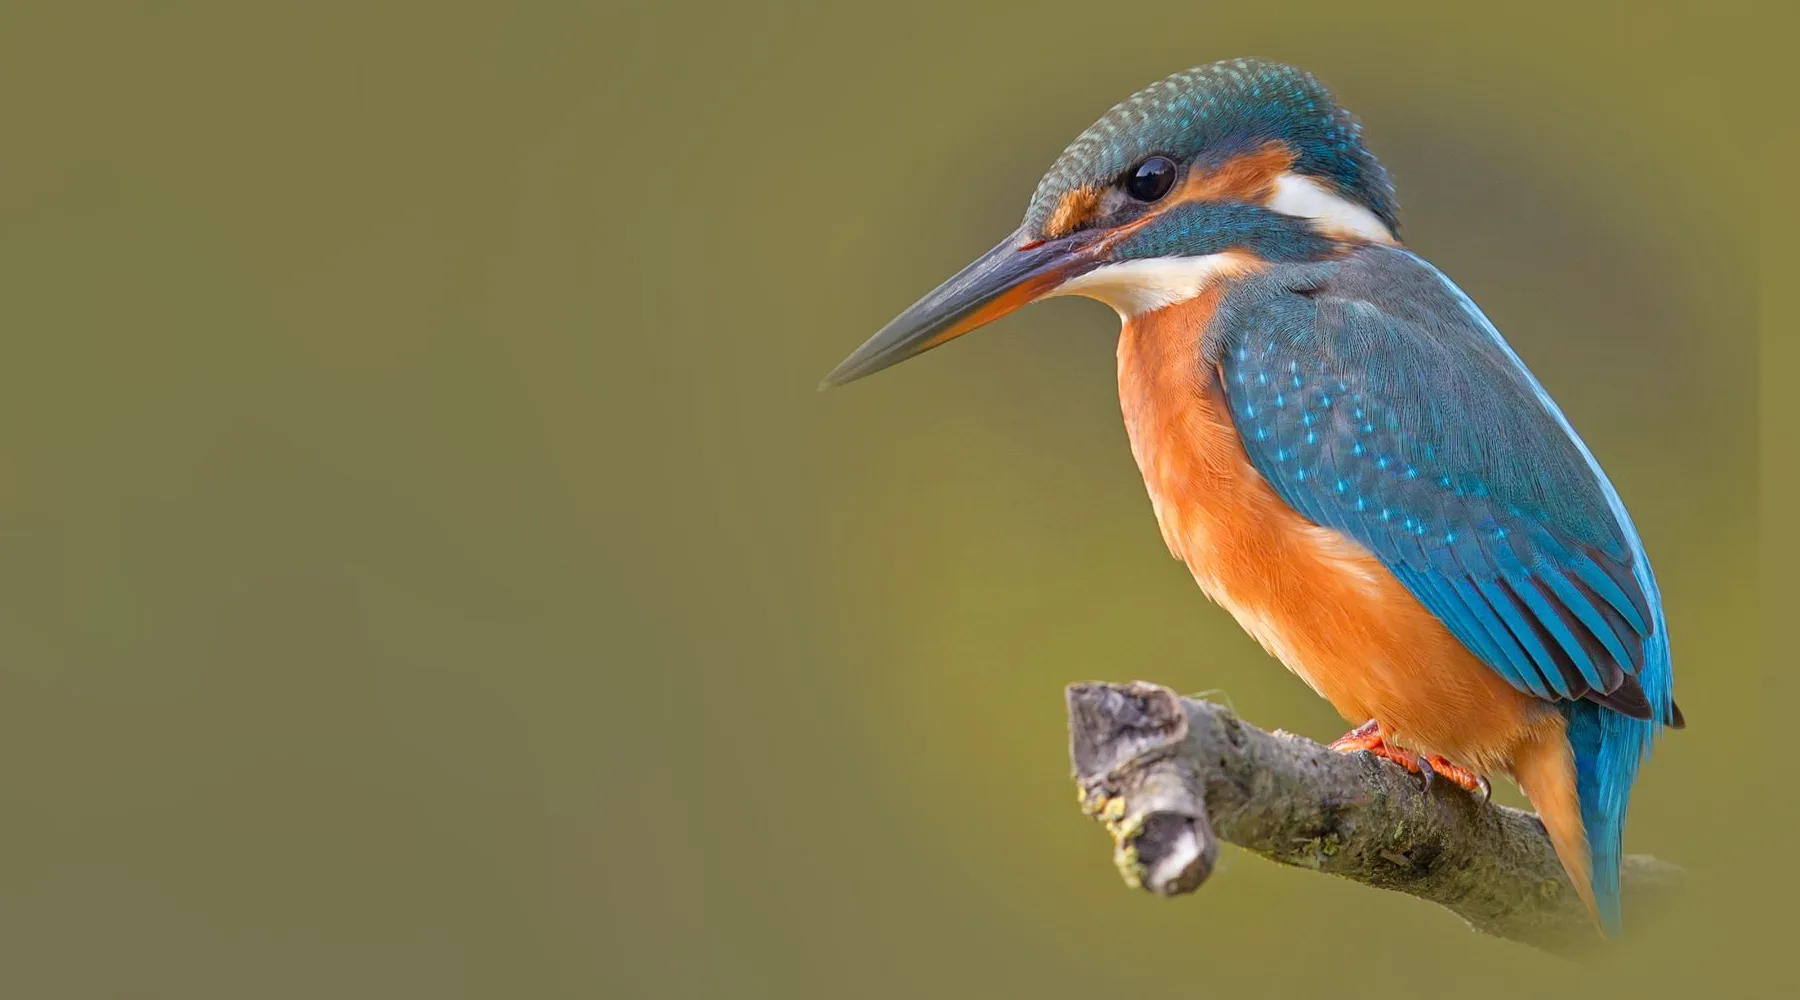
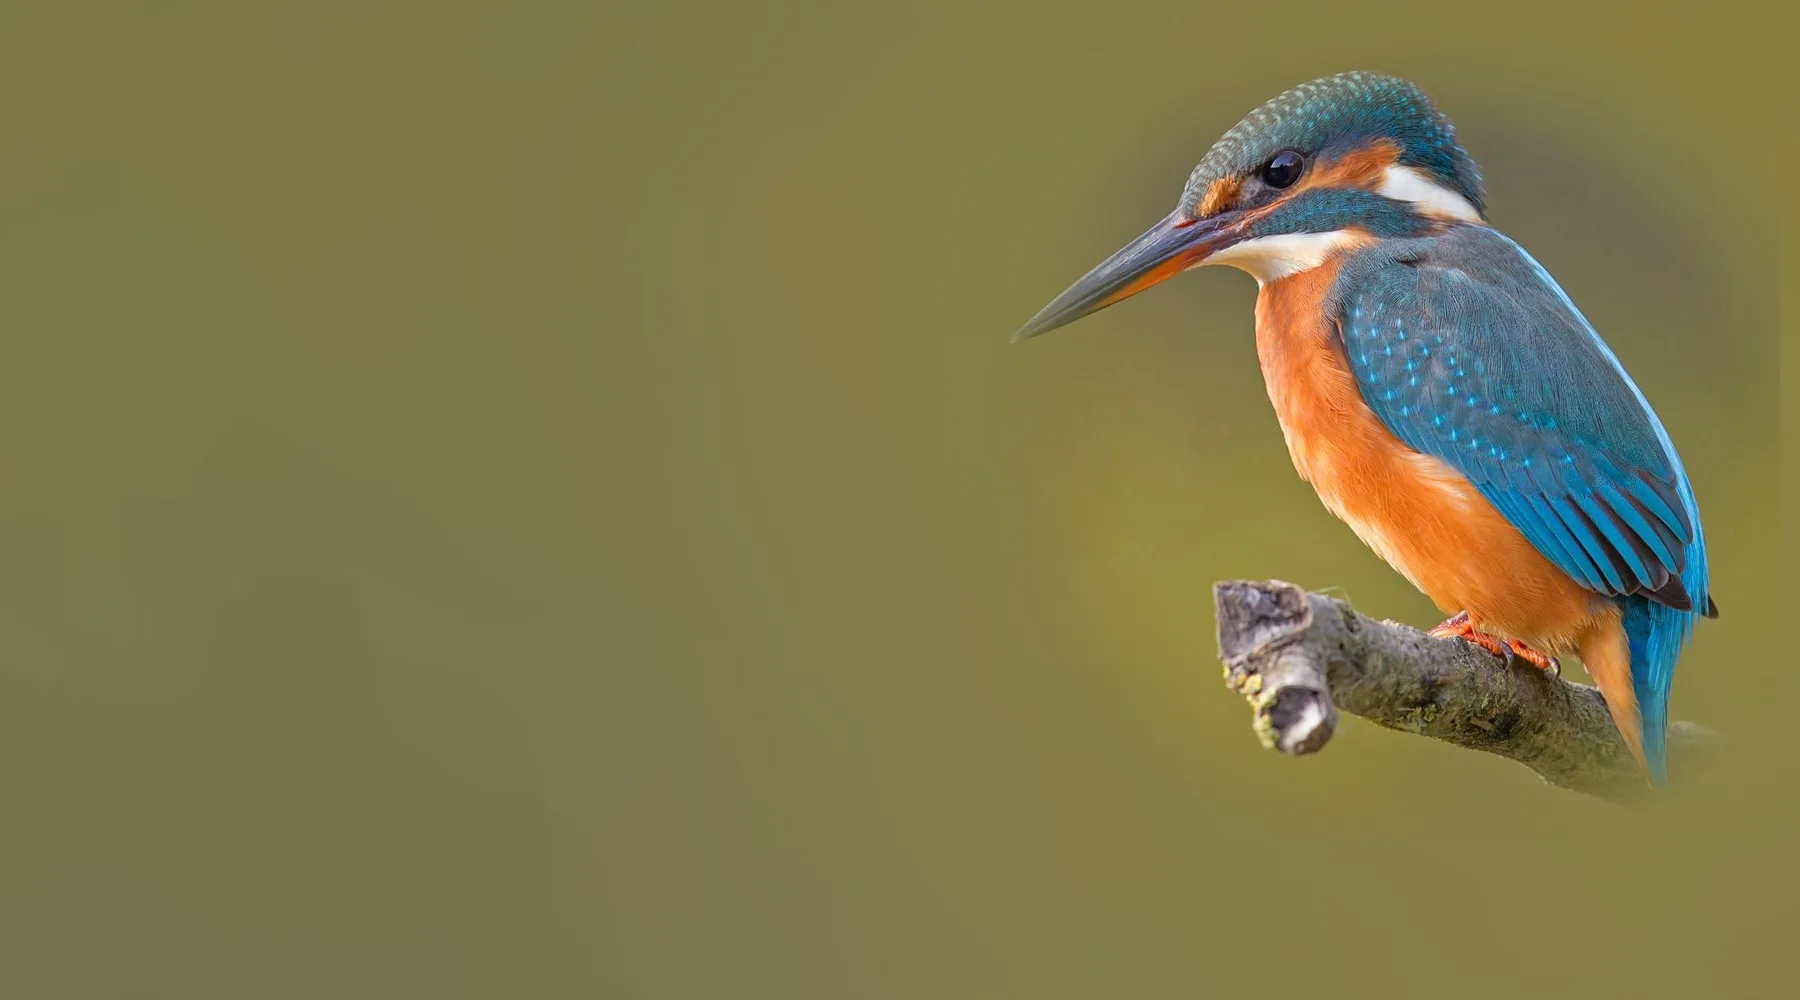
fix(nature): 头图翠鸟缩小靠右、统计分隔线、索引按钮不遮挡

Changed region(s): [[0.4667, 0.062, 0.9644, 0.93]]

diff --git a/app/nature/species/species-atlas.module.css b/app/nature/species/species-atlas.module.css
@@ -37,7 +37,10 @@
 .heroContent h1 { margin: 0; font-size: 26px; line-height: 1.3; font-weight: 800; letter-spacing: 0.02em; white-space: nowrap; }
 .heroIntro { margin: 8px 0 0; font-size: 13px; line-height: 1.6; color: rgb(255 255 255 / 92%); white-space: pre-line; }
 .heroStats { display: flex; gap: 22px; margin: 14px 0 0; }
-.heroStats > div { display: flex; flex-direction: column; align-items: center; }
+.heroStats { gap: 0 !important; }
+.heroStats > div { display: flex; flex-direction: column; align-items: center; padding: 0 16px; }
+.heroStats > div:first-child { padding-left: 0; }
+.heroStats > div + div { border-left: 1px solid rgb(255 255 255 / 35%); }
 .heroStats dd { order: 1; margin: 0; font-size: 20px; font-weight: 800; line-height: 1.2; font-variant-numeric: tabular-nums; }
 .heroStats dt { order: 2; font-size: 11px; color: rgb(255 255 255 / 88%); }
 .heroCredit { position: absolute; right: 8px; bottom: 40px; font-size: 8px; color: rgb(255 255 255 / 60%); }
@@ -115,8 +118,8 @@
 .atlas :global(.nature-atlas-index-link-disabled) { color: #d4d8de; }
 .indexActive { color: var(--atlas-blue) !important; font-weight: 800 !important; background: #eaf3ff; }
 .indexCollapse { display: grid; place-items: center; width: 20px; height: 20px; margin-bottom: 2px; border-radius: 6px; color: #b0b7c2; }
-.indexCollapsedWrap { position: sticky; top: 72px; flex-shrink: 0; width: 0; overflow: visible; }
-.indexToggle { position: relative; left: -30px; display: grid; place-items: center; min-width: 28px; height: 28px; padding: 0 5px; border-radius: 999px; background: rgb(255 255 255 / 92%); color: #6b7280; font-size: 10px; font-weight: 600; box-shadow: 0 1px 6px rgb(0 0 0 / 10%); }
+.indexCollapsedWrap { position: fixed; right: 6px; top: 42%; z-index: 20; }
+.indexToggle { display: grid; place-items: center; min-width: 28px; height: 28px; padding: 0 5px; border-radius: 999px; background: rgb(255 255 255 / 92%); color: #6b7280; font-size: 10px; font-weight: 600; box-shadow: 0 1px 6px rgb(0 0 0 / 10%); }
 .indexToggle:focus-visible, .indexCollapse:focus-visible { outline: 2px solid var(--atlas-blue); outline-offset: 2px; }
 .atlas :global(.nature-atlas-empty-all) { margin-top: 12px; }
 
@@ -147,7 +150,8 @@
   .tileInfo { padding: 12px 14px 14px; }
   .scientificName { font-size: 12px; }
   .atlas :global(.nature-atlas-letter-heading) h2 { font-size: 24px; }
-  .atlas :global(.nature-atlas-index), .indexCollapsedWrap { top: 88px; }
+  .atlas :global(.nature-atlas-index) { top: 88px; }
+  .heroStats > div { padding: 0 28px; }
 }
 @media (prefers-reduced-motion: reduce) {
   .atlas :global(.nature-atlas-tile), .atlas :global(.nature-atlas-index-link) { transition: none; }
